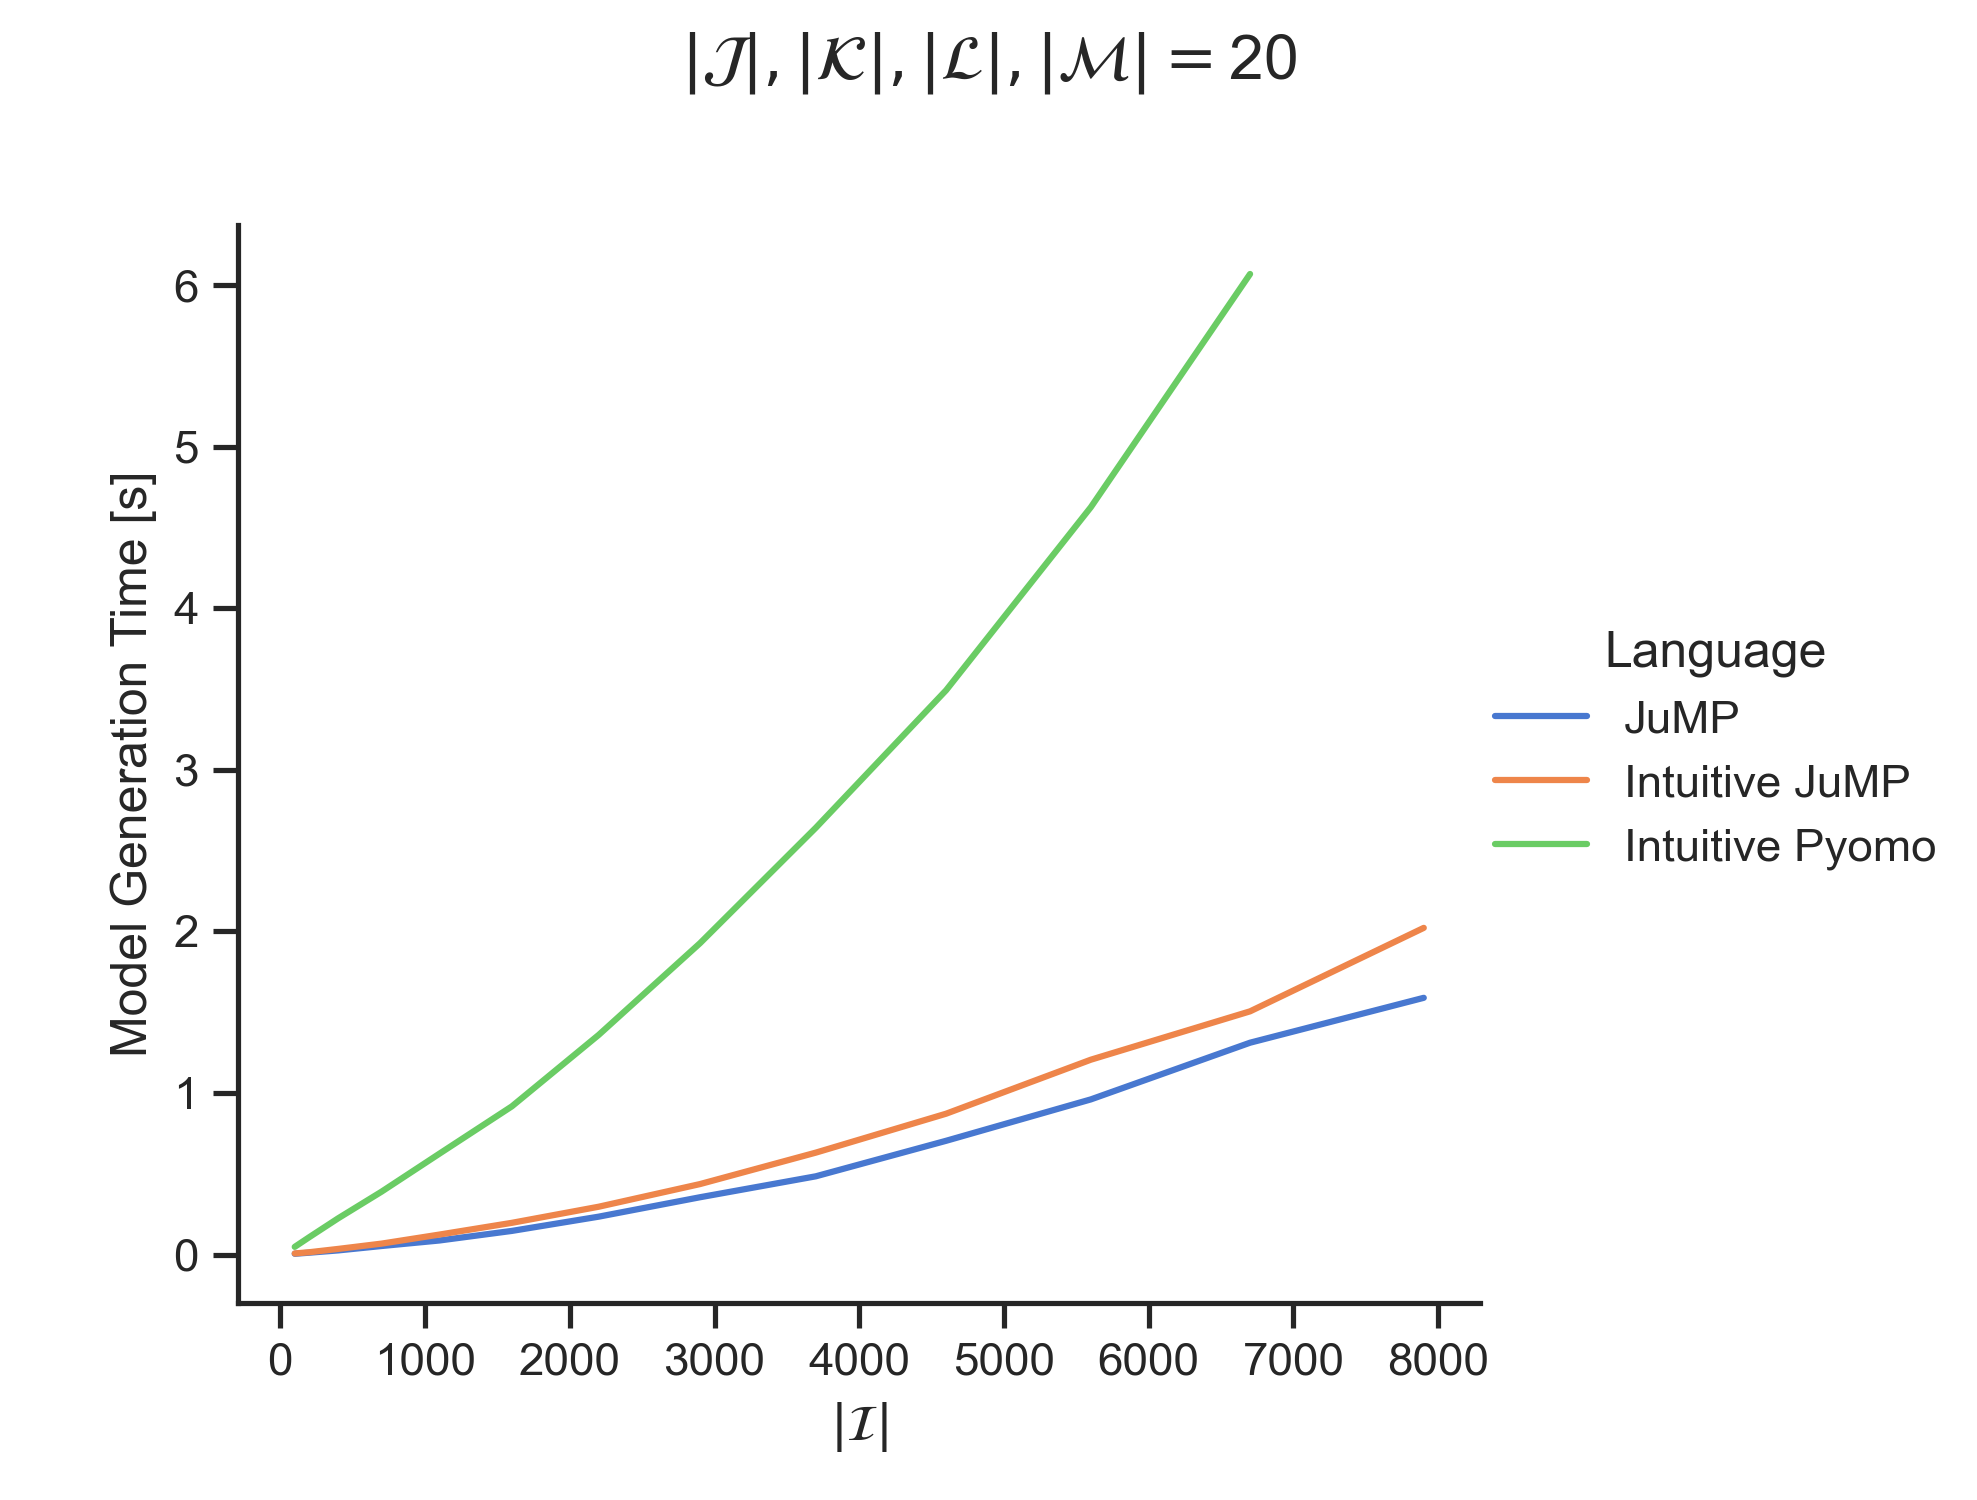
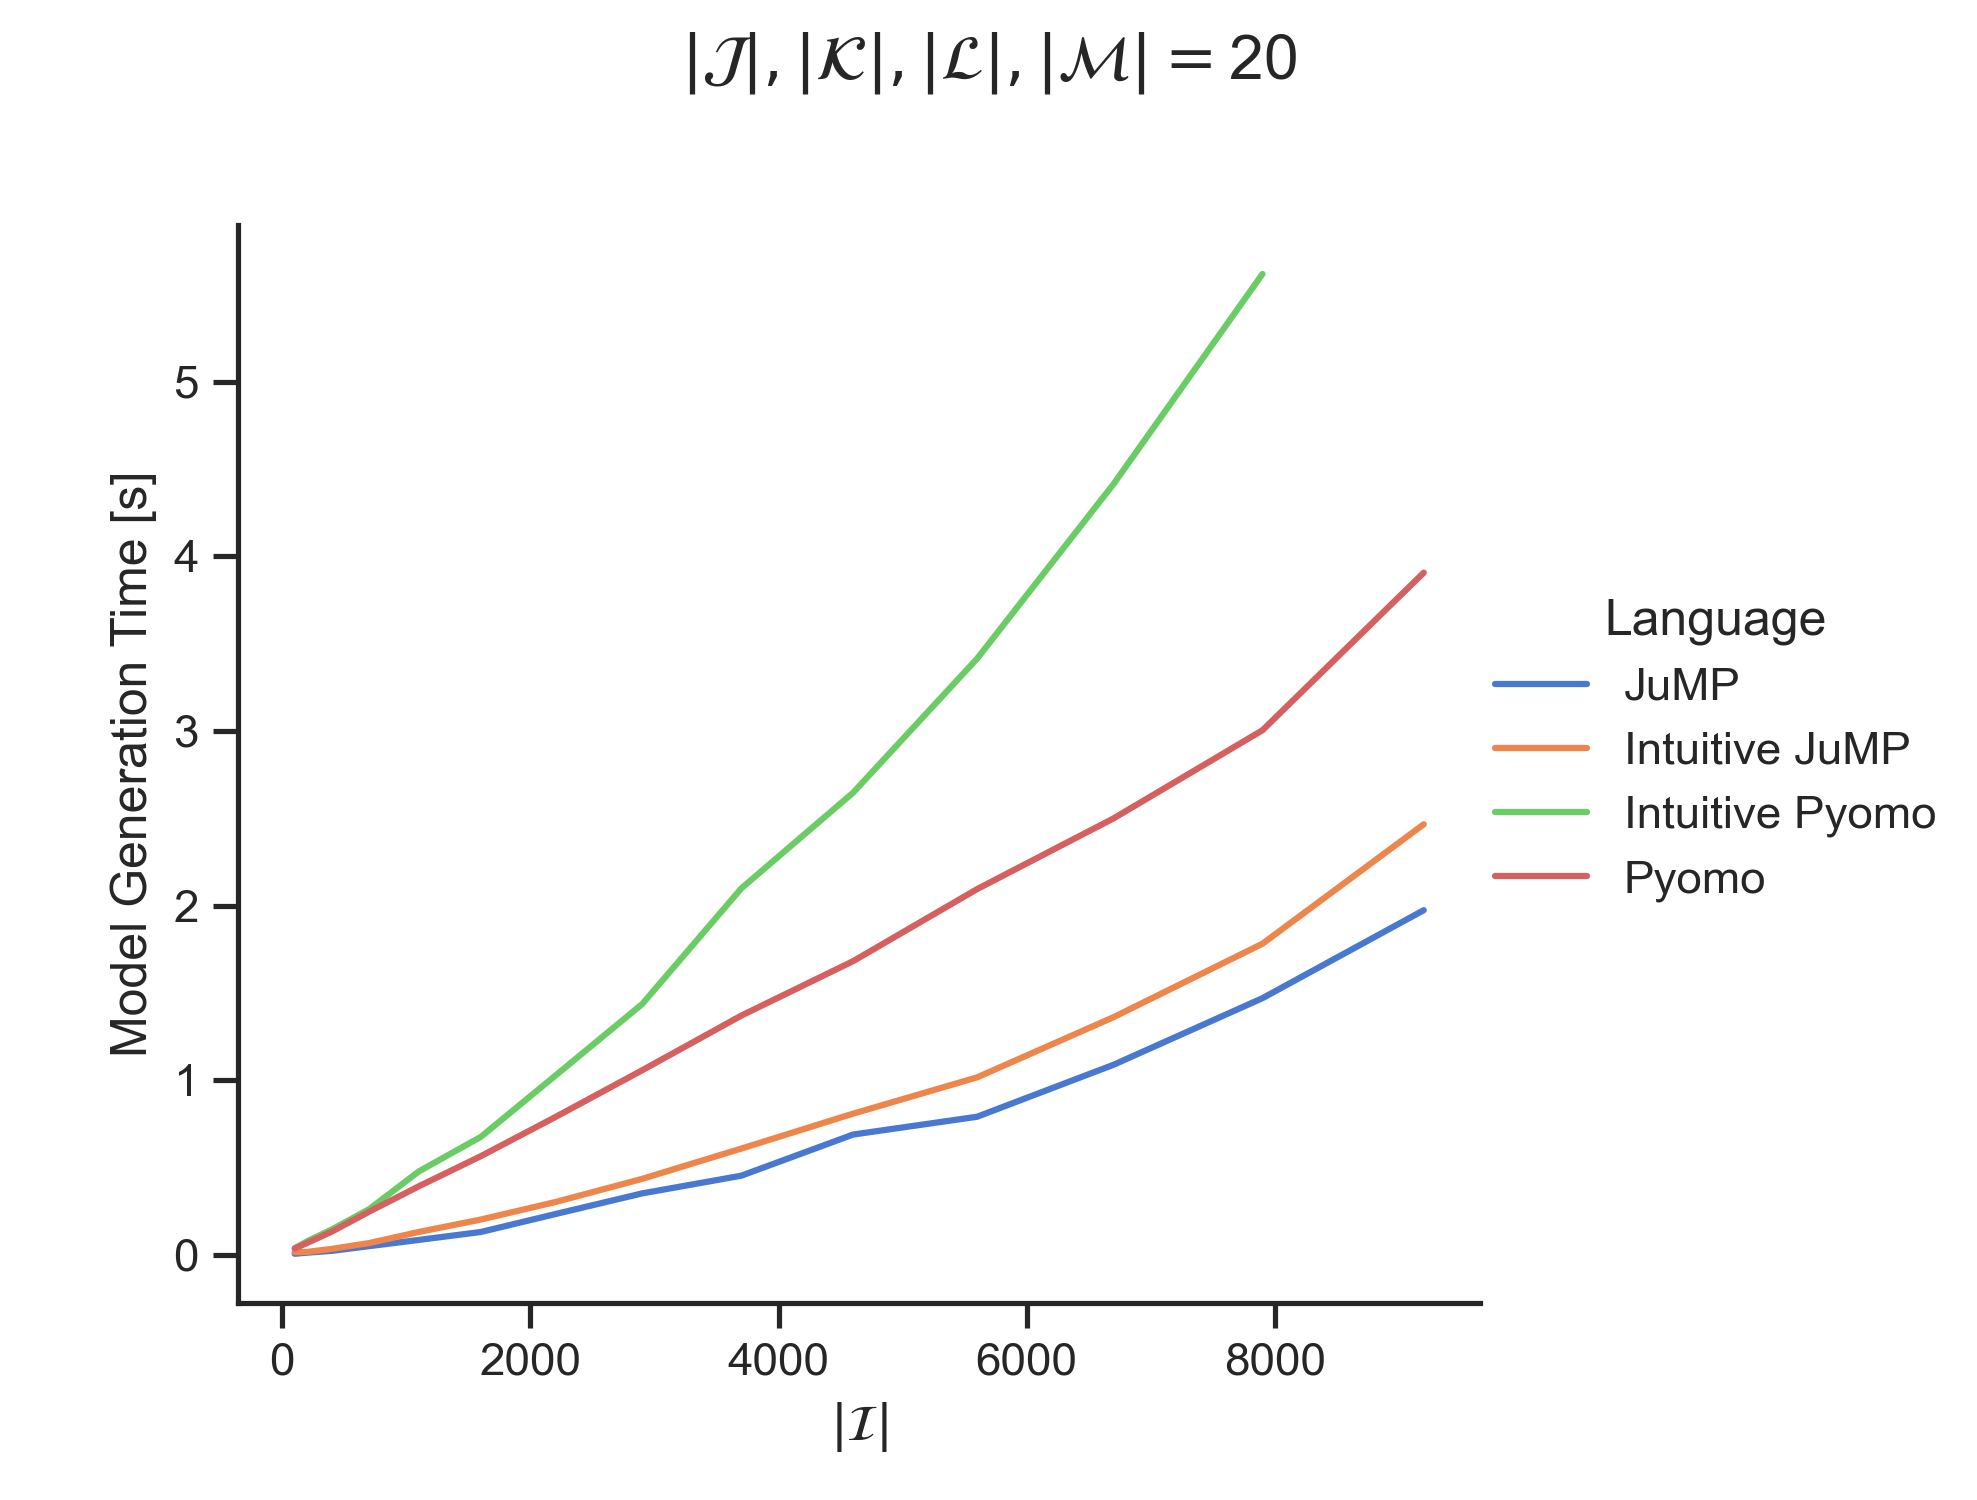
add a faster pyomo implementation of the supply chain model

diff --git a/supply_chain/run_pyomo.py b/supply_chain/run_pyomo.py
@@ -3,6 +3,9 @@ import logging
 import timeit
 import pandas as pd
 import numpy as np
+import itertools
+from collections import defaultdict
+from operator import itemgetter
 
 logging.getLogger("pyomo.core").setLevel(logging.ERROR)
 
@@ -117,3 +120,143 @@ def intuitive_transport_rule(model, i, l):
 
 def intuitive_demand_rule(model, i, m):
     return sum(model.z[i, l, m] for (l, mm) in model.LM if mm == m) >= model.d[i, m]
+
+
+########## Pyomo ##########
+def run_pyomo(I, L, M, IJ, JK, IK, KL, LM, D, solve, repeats, number):
+    setup = {
+        "I": I,
+        "L": L,
+        "M": M,
+        "IJ": IJ,
+        "JK": JK,
+        "IK": IK,
+        "KL": KL,
+        "LM": LM,
+        "D": D,
+        "solve": solve,
+        "model_function": pyomo,
+    }
+    r = timeit.repeat(
+        "model_function(I, L, M, IJ, JK, IK, KL, LM, D, solve)",
+        repeat=repeats,
+        number=number,
+        globals=setup,
+    )
+
+    result = pd.DataFrame(
+        {
+            "I": [len(I)],
+            "Language": ["Pyomo"],
+            "MinTime": [np.min(r)],
+            "MeanTime": [np.mean(r)],
+            "MedianTime": [np.median(r)],
+        }
+    )
+    return result
+
+
+def pyomo(I, L, M, IJ, JK, IK, KL, LM, D, solve):
+    model = pyo.ConcreteModel()
+
+    model.I = pyo.Set(initialize=I)
+    model.L = pyo.Set(initialize=L)
+    model.M = pyo.Set(initialize=M)
+    model.IJ = pyo.Set(initialize=IJ)
+    model.JK = pyo.Set(initialize=JK)
+    model.IK = pyo.Set(initialize=IK)
+    model.KL = pyo.Set(initialize=KL)
+    model.LM = pyo.Set(initialize=LM)
+
+    # some data wrangling
+    IJ_dict = defaultdict(set)
+    for i, j in IJ:
+        IJ_dict[i].add(j)
+    KJ_dict = defaultdict(set)
+    for j, k in JK:
+        KJ_dict[k].add(j)
+    # make a dictionary of (i, k) : {(i, j, k) tuples}
+    IK_IJK = {
+        (i, k): {(i, j, k) for j in IJ_dict.get(i, set()) & KJ_dict.get(k, set())}
+        for (i, k) in IK
+    }
+
+    L_M = {l: [] for l in model.L}
+    L_M.update(
+        {
+            l: list(map(itemgetter(1), lm))
+            for l, lm in itertools.groupby(sorted(model.LM), itemgetter(0))
+        }
+    )
+    M_L = {m: [] for m in model.M}
+    M_L.update(
+        {
+            m: list(map(itemgetter(0), lm))
+            for m, lm in itertools.groupby(
+                sorted(model.LM, key=itemgetter(1)), itemgetter(1)
+            )
+        }
+    )
+    L_K = {l: [] for l in model.L}
+    L_K.update(
+        {
+            l: list(map(itemgetter(0), kl))
+            for l, kl in itertools.groupby(
+                sorted(model.KL, key=itemgetter(1)), itemgetter(1)
+            )
+        }
+    )
+
+    model.L_M = pyo.Set(model.L, initialize=L_M)
+    model.M_L = pyo.Set(model.M, initialize=M_L)
+    model.L_K = pyo.Set(model.L, initialize=L_K)
+    model.IK_IJK = pyo.Set(IK_IJK.keys(), initialize=IK_IJK)
+
+    model.f = pyo.Param(default=1)
+    model.d = pyo.Param(model.I, model.M, initialize=D)
+
+    x_list = list(itertools.chain(*IK_IJK.values()))
+
+    model.x = pyo.Var(x_list, domain=pyo.NonNegativeReals)
+
+    model.y = pyo.Var(
+        [(i, k, l) for i in model.I for (k, l) in model.KL], domain=pyo.NonNegativeReals
+    )
+
+    model.z = pyo.Var(
+        [(i, l, m) for i in model.I for (l, m) in model.LM], domain=pyo.NonNegativeReals
+    )
+
+    model.OBJ = pyo.Objective(expr=model.f)
+
+    model.production = pyo.Constraint(IK_IJK.keys(), rule=production_rule)
+    model.transport = pyo.Constraint(model.I, model.L, rule=transport_rule)
+    model.demand = pyo.Constraint(model.I, model.M, rule=demand_rule)
+
+    # model.write("int.lp")
+
+    if solve:
+        opt = pyo.SolverFactory("gurobi")
+        opt.solve(model)
+
+
+def production_rule(model, i, k):
+    lhs = [model.x[i, j, k] for i, j, k in model.IK_IJK[i, k]]
+    rhs = [model.y[i, k, l] for (kk, l) in model.KL if kk == k]
+
+    if lhs and rhs:
+        return sum(lhs) >= sum(rhs)
+    else:
+        return pyo.Constraint.Skip
+
+
+def transport_rule(model, i, l):
+    if len(model.L_K[l]) or len(model.L_M[l]):
+        return sum(model.y[i, k, l] for k in model.L_K[l]) >= sum(
+            model.z[i, l, m] for m in model.L_M[l]
+        )
+    return pyo.Constraint.Skip
+
+
+def demand_rule(model, i, m):
+    return sum(model.z[i, l, m] for l in model.M_L[m]) >= model.d[i, m]

diff --git a/main_suppy_chain.py b/main_suppy_chain.py
@@ -14,7 +14,7 @@ from help import (
     print_log_message,
     save_results,
 )
-from supply_chain.run_pyomo import run_intuitive_pyomo
+from supply_chain.run_pyomo import run_intuitive_pyomo, run_pyomo
 from supply_chain.run_jump import run_julia
 
 
@@ -83,6 +83,25 @@ def run_experiment(
             df_intuitive_pyomo = process_results(rr, df_intuitive_pyomo)
             print_log_message(language="Intuitive Pyomo", n=n, df=df_intuitive_pyomo)
 
+        # Pyomo
+        if below_time_limit(df_pyomo, time_limit):
+            rr = run_pyomo(
+                I=I,
+                L=L,
+                M=M,
+                IJ=ij_tuple,
+                JK=jk_tuple,
+                IK=ik_tuple,
+                KL=kl_tuple,
+                LM=lm_tuple,
+                D=d_dict,
+                solve=solve,
+                repeats=repeats,
+                number=number,
+            )
+            df_pyomo = process_results(rr, df_pyomo)
+            print_log_message(language="Pyomo", n=n, df=df_pyomo)
+
     # JuMP
     df_jump, df_intuitive_jump = run_julia(solve, repeats, number, time_limit)
 
@@ -92,7 +111,7 @@ def run_experiment(
             df_jump,
             df_intuitive_jump,
             df_intuitive_pyomo,
-            # df_pyomo,
+            df_pyomo,
         ]
     ).reset_index(drop=True)
 
@@ -102,9 +121,17 @@ def run_experiment(
     # plot results
     visualization.plot_results(df, cardinality_of_j, solve, "supply_chain")
 
+
 if __name__ == "__main__":
-    CI = 8000
+    CI = 10000
     CJ = 20
 
     for solve in [False, True]:
-        run_experiment(cardinality_of_i=CI, cardinality_of_j=CJ, solve=solve, repeats=2, number=1, time_limit=5)
+        run_experiment(
+            cardinality_of_i=CI,
+            cardinality_of_j=CJ,
+            solve=solve,
+            repeats=3,
+            number=1,
+            time_limit=5,
+        )
